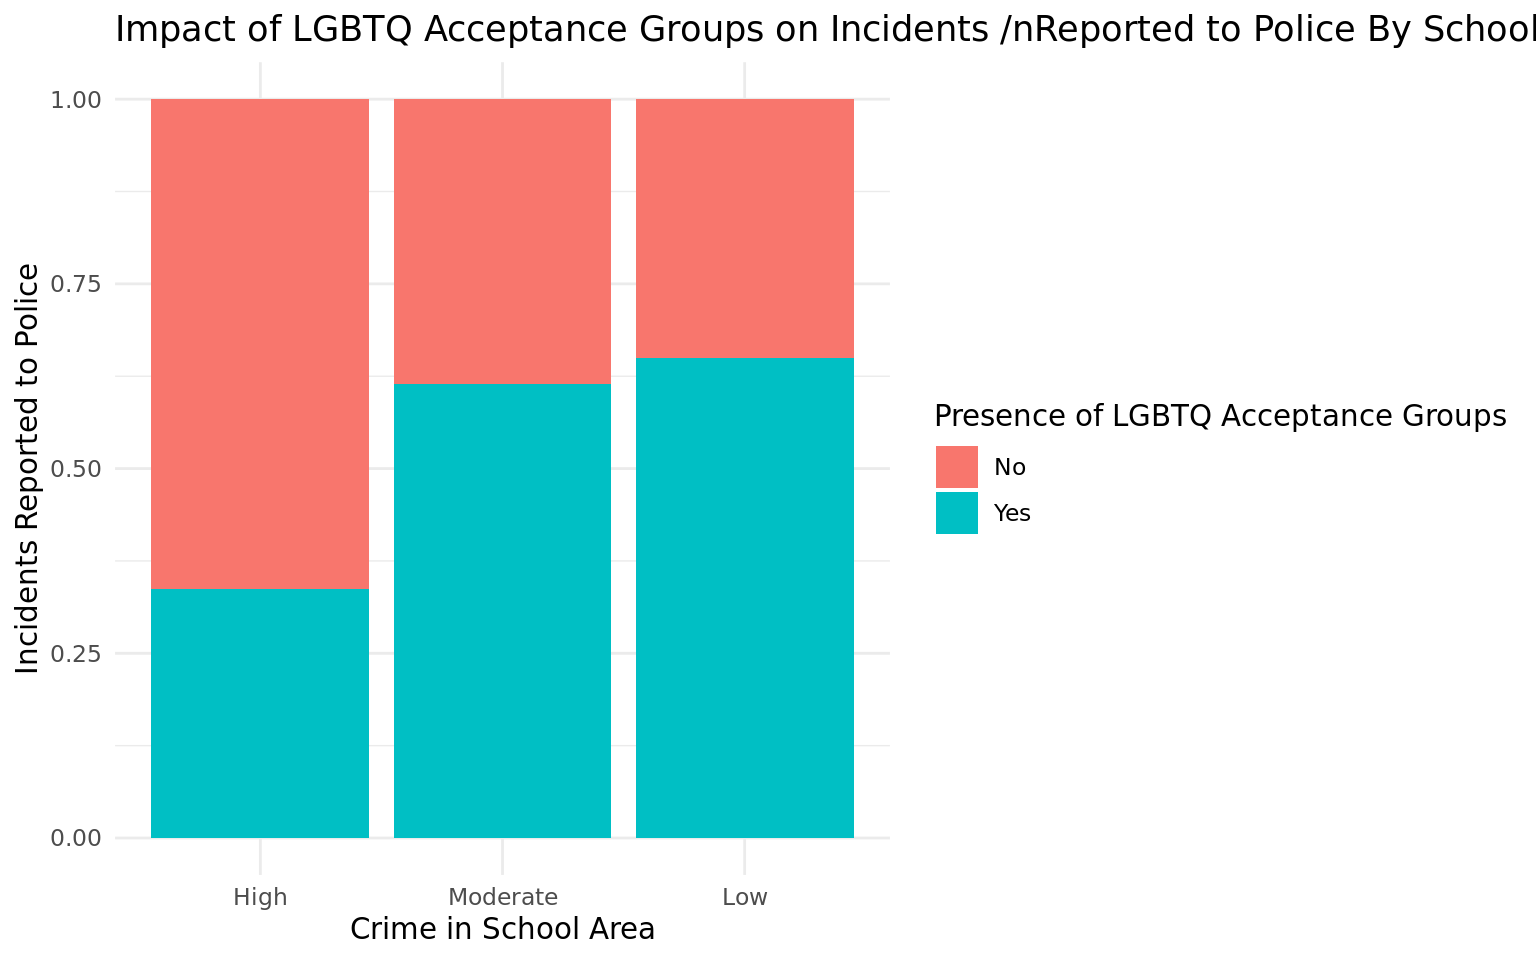
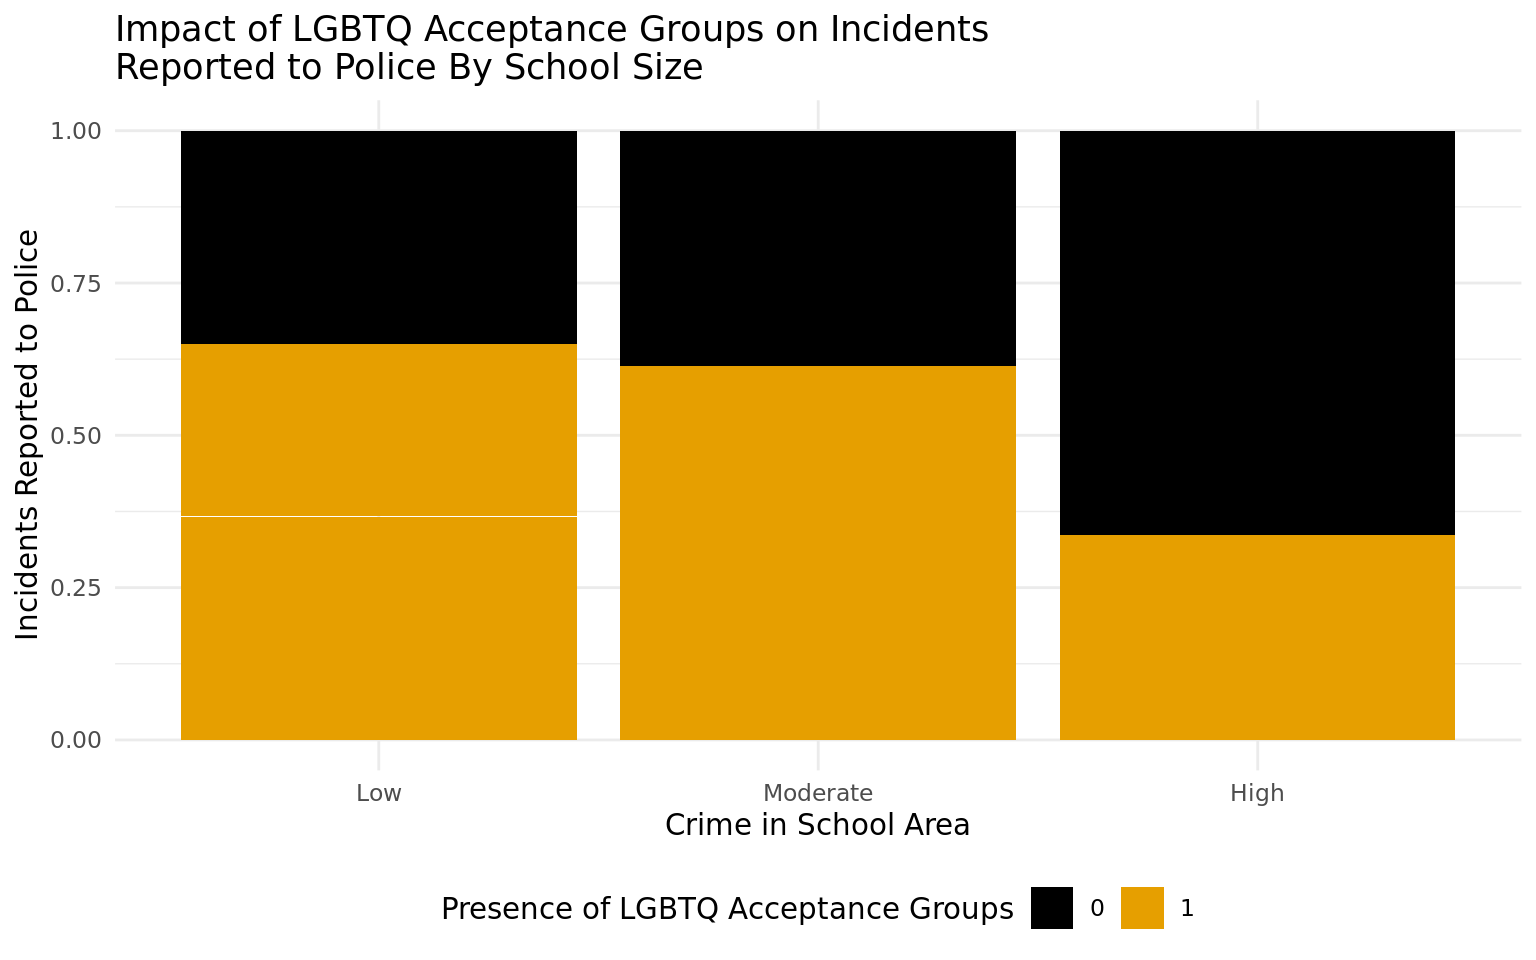
relevel factors and edit yaml

diff --git a/docs/index.html b/docs/index.html
@@ -117,10 +117,6 @@ ul.task-list li input[type="checkbox"] {
 <span class="menu-text">Write Up</span></a>
   </li>  
   <li class="nav-item">
-    <a class="nav-link" href="./presentation.html"> 
-<span class="menu-text">Presentation</span></a>
-  </li>  
-  <li class="nav-item">
     <a class="nav-link" href="./about.html"> 
 <span class="menu-text">About</span></a>
   </li>  
@@ -192,8 +188,8 @@ grid-auto-rows: minmax(0, 1fr);">
 </div>
 </div></div><div class="tab-pane html-fill-item html-fill-container" role="tabpanel" id="card-tabset-2-2"><div class="card-body html-fill-item html-fill-container" data-title="School Resources and Practices">
 <div class="cell-output-display html-fill-item html-fill-container">
-<div class="plotly html-widget html-fill-item html-fill-container" id="htmlwidget-b79a93c6660d6922390c" style="width:100%;height:406px;"></div>
-<script type="application/json" data-for="htmlwidget-b79a93c6660d6922390c">{"x":{"visdat":{"1170b55ae39e":["function () ","plotlyVisDat"]},"cur_data":"1170b55ae39e","attrs":{"1170b55ae39e":{"x":{},"y":{},"text":{},"hoverinfo":"text","marker":{"color":{},"colorscale":"RdBl"},"alpha_stroke":1,"sizes":[10,100],"spans":[1,20],"type":"bar"}},"layout":{"margin":{"b":40,"l":60,"t":25,"r":10},"title":"School Resources and Practices Impact on Incidents Reported to Police","xaxis":{"domain":[0,1],"automargin":true,"title":"name","type":"category","categoryorder":"array","categoryarray":["C0110","C0112","C0114","C0116","C0120","C0121","C0122","C0125","C0129","C0134","C0136","C0138","C0139","C0140","C0141","C0142","C0143","C0144","C0146","C0150","C0153","C0155","C0157","C0158","C0161","C0162","C0163","C0165","C0166","C0167","C0169","C0170","C0174","C0175","C0176","C0177","C0179","C0181","C0183","C0186","C0190","C0192","C0196","C0198","C0204","C0206","C0208","C0210","C0212","C0214","C0216","C0218","C0265","C0266","C0267","C0268","C0269","C0270","C0271","C0272","C0273","C0274","C0276","C0277","C0278","C0600","C0604","C0606","C0608","C0610","C0612","C0614","C0616","C0618","C0621","C0622","C0624","C0626","C0628","C0630","C0632","C0636","C0638","C0640","C0642","C0644","C0646","C0648","C0650","C0661","C0667"]},"yaxis":{"domain":[0,1],"automargin":true,"title":"slope"},"hovermode":"closest","showlegend":false},"source":"A","config":{"modeBarButtonsToAdd":["hoverclosest","hovercompare"],"showSendToCloud":false},"data":[{"x":["C0110","C0112","C0114","C0116","C0120","C0121","C0122","C0125","C0129","C0134","C0136","C0138","C0140","C0139","C0141","C0143","C0142","C0144","C0146","C0150","C0153","C0155","C0158","C0162","C0166","C0170","C0169","C0161","C0157","C0163","C0165","C0167","C0174","C0183","C0176","C0181","C0175","C0177","C0179","C0186","C0600","C0604","C0606","C0608","C0190","C0192","C0196","C0198","C0204","C0206","C0208","C0210","C0212","C0214","C0216","C0218","C0610","C0612","C0614","C0616","C0618","C0621","C0622","C0624","C0626","C0628","C0630","C0632","C0636","C0638","C0640","C0642","C0644","C0646","C0648","C0650","C0661","C0667","C0266","C0268","C0265","C0267","C0269","C0270","C0272","C0278","C0271","C0273","C0274","C0276","C0277"],"y":[-3.3668691832223816,-1.397978695326342,1.5042755731653841,6.9223910179154826,5.5923792209519281,0.10162008640761738,0.38471471486976588,5.3926841163146468,3.10914754148813,-2.554883943847349,0.54076999384254332,2.9600952257060857,0.10094253615951802,-0.66765359314992279,-1.1638254809796569,3.6089401658507221,5.4136634418915675,-0.66869858718602793,2.5937544012415823,0.20258159215807381,-3.7693381487649709,0.92324636936249516,0.9828019647213625,1.1661963836796494,1.8141177488224522,-0.50213313132738957,1.5064031185748636,-0.65068982417313959,-0.66569862778026057,0.94572122348608911,-0.13722340711816758,2.1171389710165229,-1.8020012834634898,-0.7738020329335481,-2.6028444791733065,0.22718638409237951,-0.28226096995771049,2.4715798671345892,-1.0487296030545865,-2.1489351310912186,2.132152941663104,9.0542360519560479,3.4325519275683951,6.2753511277332183,1.6054256238741895,-0.045955228494010437,0.56861208040897826,2.2520642457143305,-2.4958357575810455,2.3024546477479255,6.1815118752910729,2.5218428380542521,3.2899024421275684,2.1524971476861934,2.6892866076620305,2.7976961117939849,7.9806976290657268,8.347940605873502,8.5645443252970352,8.1996248153742055,4.5496806361740294,8.3660773061237492,7.6663482252313626,8.1760762402709641,6.9506963037097949,6.1526617110337627,8.8679905345160339,8.3807840971700749,8.1388953809172992,5.0873604459782609,6.5216405341707704,2.7215185594736853,8.1128488245548134,9.3574927652626823,8.6142858233994009,7.3360396667182739,3.319417095504837,2.4894111689124681,-0.39220562558987138,1.5348909923613838,0.35096960723585208,-0.81104149847696094,0.97559413797251393,0.55693405631333048,0.76893735011555531,1.7706832234258596,0.158881877329137,-0.53309320625460432,2.6754937190358108,-0.32764182657786572,0.52346435141880943],"text":["Variable:  C0110 <br>Slope:  -3.36686918322238","Variable:  C0112 <br>Slope:  -1.39797869532634","Variable:  C0114 <br>Slope:  1.50427557316538","Variable:  C0116 <br>Slope:  6.92239101791548","Variable:  C0120 <br>Slope:  5.59237922095193","Variable:  C0121 <br>Slope:  0.101620086407617","Variable:  C0122 <br>Slope:  0.384714714869766","Variable:  C0125 <br>Slope:  5.39268411631465","Variable:  C0129 <br>Slope:  3.10914754148813","Variable:  C0134 <br>Slope:  -2.55488394384735","Variable:  C0136 <br>Slope:  0.540769993842543","Variable:  C0138 <br>Slope:  2.96009522570609","Variable:  C0140 <br>Slope:  0.100942536159518","Variable:  C0139 <br>Slope:  -0.667653593149923","Variable:  C0141 <br>Slope:  -1.16382548097966","Variable:  C0143 <br>Slope:  3.60894016585072","Variable:  C0142 <br>Slope:  5.41366344189157","Variable:  C0144 <br>Slope:  -0.668698587186028","Variable:  C0146 <br>Slope:  2.59375440124158","Variable:  C0150 <br>Slope:  0.202581592158074","Variable:  C0153 <br>Slope:  -3.76933814876497","Variable:  C0155 <br>Slope:  0.923246369362495","Variable:  C0158 <br>Slope:  0.982801964721362","Variable:  C0162 <br>Slope:  1.16619638367965","Variable:  C0166 <br>Slope:  1.81411774882245","Variable:  C0170 <br>Slope:  -0.50213313132739","Variable:  C0169 <br>Slope:  1.50640311857486","Variable:  C0161 <br>Slope:  -0.65068982417314","Variable:  C0157 <br>Slope:  -0.665698627780261","Variable:  C0163 <br>Slope:  0.945721223486089","Variable:  C0165 <br>Slope:  -0.137223407118168","Variable:  C0167 <br>Slope:  2.11713897101652","Variable:  C0174 <br>Slope:  -1.80200128346349","Variable:  C0183 <br>Slope:  -0.773802032933548","Variable:  C0176 <br>Slope:  -2.60284447917331","Variable:  C0181 <br>Slope:  0.22718638409238","Variable:  C0175 <br>Slope:  -0.28226096995771","Variable:  C0177 <br>Slope:  2.47157986713459","Variable:  C0179 <br>Slope:  -1.04872960305459","Variable:  C0186 <br>Slope:  -2.14893513109122","Variable:  C0600 <br>Slope:  2.1321529416631","Variable:  C0604 <br>Slope:  9.05423605195605","Variable:  C0606 <br>Slope:  3.4325519275684","Variable:  C0608 <br>Slope:  6.27535112773322","Variable:  C0190 <br>Slope:  1.60542562387419","Variable:  C0192 <br>Slope:  -0.0459552284940104","Variable:  C0196 <br>Slope:  0.568612080408978","Variable:  C0198 <br>Slope:  2.25206424571433","Variable:  C0204 <br>Slope:  -2.49583575758105","Variable:  C0206 <br>Slope:  2.30245464774793","Variable:  C0208 <br>Slope:  6.18151187529107","Variable:  C0210 <br>Slope:  2.52184283805425","Variable:  C0212 <br>Slope:  3.28990244212757","Variable:  C0214 <br>Slope:  2.15249714768619","Variable:  C0216 <br>Slope:  2.68928660766203","Variable:  C0218 <br>Slope:  2.79769611179398","Variable:  C0610 <br>Slope:  7.98069762906573","Variable:  C0612 <br>Slope:  8.3479406058735","Variable:  C0614 <br>Slope:  8.56454432529704","Variable:  C0616 <br>Slope:  8.19962481537421","Variable:  C0618 <br>Slope:  4.54968063617403","Variable:  C0621 <br>Slope:  8.36607730612375","Variable:  C0622 <br>Slope:  7.66634822523136","Variable:  C0624 <br>Slope:  8.17607624027096","Variable:  C0626 <br>Slope:  6.95069630370979","Variable:  C0628 <br>Slope:  6.15266171103376","Variable:  C0630 <br>Slope:  8.86799053451603","Variable:  C0632 <br>Slope:  8.38078409717007","Variable:  C0636 <br>Slope:  8.1388953809173","Variable:  C0638 <br>Slope:  5.08736044597826","Variable:  C0640 <br>Slope:  6.52164053417077","Variable:  C0642 <br>Slope:  2.72151855947369","Variable:  C0644 <br>Slope:  8.11284882455481","Variable:  C0646 <br>Slope:  9.35749276526268","Variable:  C0648 <br>Slope:  8.6142858233994","Variable:  C0650 <br>Slope:  7.33603966671827","Variable:  C0661 <br>Slope:  3.31941709550484","Variable:  C0667 <br>Slope:  2.48941116891247","Variable:  C0266 <br>Slope:  -0.392205625589871","Variable:  C0268 <br>Slope:  1.53489099236138","Variable:  C0265 <br>Slope:  0.350969607235852","Variable:  C0267 <br>Slope:  -0.811041498476961","Variable:  C0269 <br>Slope:  0.975594137972514","Variable:  C0270 <br>Slope:  0.55693405631333","Variable:  C0272 <br>Slope:  0.768937350115555","Variable:  C0278 <br>Slope:  1.77068322342586","Variable:  C0271 <br>Slope:  0.158881877329137","Variable:  C0273 <br>Slope:  -0.533093206254604","Variable:  C0274 <br>Slope:  2.67549371903581","Variable:  C0276 <br>Slope:  -0.327641826577866","Variable:  C0277 <br>Slope:  0.523464351418809"],"hoverinfo":["text","text","text","text","text","text","text","text","text","text","text","text","text","text","text","text","text","text","text","text","text","text","text","text","text","text","text","text","text","text","text","text","text","text","text","text","text","text","text","text","text","text","text","text","text","text","text","text","text","text","text","text","text","text","text","text","text","text","text","text","text","text","text","text","text","text","text","text","text","text","text","text","text","text","text","text","text","text","text","text","text","text","text","text","text","text","text","text","text","text","text"],"marker":{"color":[0.12879729937828838,0.12831194552572575,0.12911930627225793,0.1308072770342974,0.13203234330399377,0.12812183669942298,0.12817007645890915,0.14063305826394354,0.13014178927941794,0.12967117602415376,0.12824668068209868,0.13164492971521077,0.12811845706596597,0.12829029985929694,0.12860683331756015,0.13366108000729554,0.134143525187712,0.1282782146979019,0.1292608498491325,0.12812938468515009,0.13389064868016115,0.12821250410984028,0.12821682765186293,0.12872278491312439,0.12848566861954586,0.12820975913626972,0.12849971546270442,0.12830501022054305,0.12821604133038256,0.12821807674092831,0.12811868016939043,0.12919725607893415,0.12849297056110437,0.1282476487179961,0.12878310817845498,0.12812446629080393,0.12815285046461172,0.12922402326803201,0.12858278988982499,0.12922977424340568,0.13010715679275048,0.15625333685299586,0.13278869204123203,0.14288911347030089,0.12926002743997539,0.12811852441941887,0.16932551808769525,0.15930694204250212,0.13056026950296443,0.1301711975907949,0.14457273388048525,0.1295901476999328,0.13223849235872628,0.13016261634563117,0.13092650755094065,0.13108530638348861,0.15068100303557563,0.15345705944034771,0.15580251713346341,0.15412269458663119,0.13593243420082476,0.15398122406907427,0.15241746175592133,0.15284277822835945,0.14316180404589135,0.14374046850343197,0.15847278795450828,0.15626571859902311,0.15427691447090475,0.13870510805230069,0.14527695912711205,0.13046918037706723,0.15420263035540338,0.1621600946137049,0.15292965543226697,0.15005263222898887,0.13287119253232657,0.13077777571819016,0.12814836315143593,0.12887614832227604,0.12816006186305029,0.12828255045738529,0.12853206296238598,0.12813969509261605,0.12837963025977689,0.12922908277911194,0.12812810984118636,0.12820635175431877,0.13122628871301745,0.12814585784509172,0.12821118898576306],"colorscale":"RdBl","line":{"color":"rgba(31,119,180,1)"}},"type":"bar","error_y":{"color":"rgba(31,119,180,1)"},"error_x":{"color":"rgba(31,119,180,1)"},"xaxis":"x","yaxis":"y","frame":null}],"highlight":{"on":"plotly_click","persistent":false,"dynamic":false,"selectize":false,"opacityDim":0.20000000000000001,"selected":{"opacity":1},"debounce":0},"shinyEvents":["plotly_hover","plotly_click","plotly_selected","plotly_relayout","plotly_brushed","plotly_brushing","plotly_clickannotation","plotly_doubleclick","plotly_deselect","plotly_afterplot","plotly_sunburstclick"],"base_url":"https://plot.ly"},"evals":[],"jsHooks":[]}</script>
+<div class="plotly html-widget html-fill-item html-fill-container" id="htmlwidget-0c9e3a1086dd300338dc" style="width:100%;height:406px;"></div>
+<script type="application/json" data-for="htmlwidget-0c9e3a1086dd300338dc">{"x":{"visdat":{"d459332db8fa":["function () ","plotlyVisDat"]},"cur_data":"d459332db8fa","attrs":{"d459332db8fa":{"x":{},"y":{},"text":{},"hoverinfo":"text","marker":{"color":{},"colorscale":"RdBl"},"alpha_stroke":1,"sizes":[10,100],"spans":[1,20],"type":"bar"}},"layout":{"margin":{"b":40,"l":60,"t":25,"r":10},"title":"School Resources and Practices Impact on Incidents Reported to Police","xaxis":{"domain":[0,1],"automargin":true,"title":"name","type":"category","categoryorder":"array","categoryarray":["C0110","C0112","C0114","C0116","C0120","C0121","C0122","C0125","C0129","C0134","C0136","C0138","C0139","C0140","C0141","C0142","C0143","C0144","C0146","C0150","C0153","C0155","C0157","C0158","C0161","C0162","C0163","C0165","C0166","C0167","C0169","C0170","C0174","C0175","C0176","C0177","C0179","C0181","C0183","C0186","C0190","C0192","C0196","C0198","C0204","C0206","C0208","C0210","C0212","C0214","C0216","C0218","C0265","C0266","C0267","C0268","C0269","C0270","C0271","C0272","C0273","C0274","C0276","C0277","C0278","C0600","C0604","C0606","C0608","C0610","C0612","C0614","C0616","C0618","C0621","C0622","C0624","C0626","C0628","C0630","C0632","C0636","C0638","C0640","C0642","C0644","C0646","C0648","C0650","C0661","C0667"]},"yaxis":{"domain":[0,1],"automargin":true,"title":"slope"},"hovermode":"closest","showlegend":false},"source":"A","config":{"modeBarButtonsToAdd":["hoverclosest","hovercompare"],"showSendToCloud":false},"data":[{"x":["C0110","C0112","C0114","C0116","C0120","C0121","C0122","C0125","C0129","C0134","C0136","C0138","C0140","C0139","C0141","C0143","C0142","C0144","C0146","C0150","C0153","C0155","C0158","C0162","C0166","C0170","C0169","C0161","C0157","C0163","C0165","C0167","C0174","C0183","C0176","C0181","C0175","C0177","C0179","C0186","C0600","C0604","C0606","C0608","C0190","C0192","C0196","C0198","C0204","C0206","C0208","C0210","C0212","C0214","C0216","C0218","C0610","C0612","C0614","C0616","C0618","C0621","C0622","C0624","C0626","C0628","C0630","C0632","C0636","C0638","C0640","C0642","C0644","C0646","C0648","C0650","C0661","C0667","C0266","C0268","C0265","C0267","C0269","C0270","C0272","C0278","C0271","C0273","C0274","C0276","C0277"],"y":[-3.3668691832223816,-1.397978695326342,1.5042755731653841,6.9223910179154826,5.5923792209519281,0.10162008640761738,0.38471471486976588,5.3926841163146468,3.10914754148813,-2.554883943847349,0.54076999384254332,2.9600952257060857,0.10094253615951802,-0.66765359314992279,-1.1638254809796569,3.6089401658507221,5.4136634418915675,-0.66869858718602793,2.5937544012415823,0.20258159215807381,-3.7693381487649709,0.92324636936249516,0.9828019647213625,1.1661963836796494,1.8141177488224522,-0.50213313132738957,1.5064031185748636,-0.65068982417313959,-0.66569862778026057,0.94572122348608911,-0.13722340711816758,2.1171389710165229,-1.8020012834634898,-0.7738020329335481,-2.6028444791733065,0.22718638409237951,-0.28226096995771049,2.4715798671345892,-1.0487296030545865,-2.1489351310912186,2.132152941663104,9.0542360519560479,3.4325519275683951,6.2753511277332183,1.6054256238741895,-0.045955228494010437,0.56861208040897826,2.2520642457143305,-2.4958357575810455,2.3024546477479255,6.1815118752910729,2.5218428380542521,3.2899024421275684,2.1524971476861934,2.6892866076620305,2.7976961117939849,7.9806976290657268,8.347940605873502,8.5645443252970352,8.1996248153742055,4.5496806361740294,8.3660773061237492,7.6663482252313626,8.1760762402709641,6.9506963037097949,6.1526617110337627,8.8679905345160339,8.3807840971700749,8.1388953809172992,5.0873604459782609,6.5216405341707704,2.7215185594736853,8.1128488245548134,9.3574927652626823,8.6142858233994009,7.3360396667182739,3.319417095504837,2.4894111689124681,-0.39220562558987138,1.5348909923613838,0.35096960723585208,-0.81104149847696094,0.97559413797251393,0.55693405631333048,0.76893735011555531,1.7706832234258596,0.158881877329137,-0.53309320625460432,2.6754937190358108,-0.32764182657786572,0.52346435141880943],"text":["Variable:  C0110 <br>Slope:  -3.36686918322238","Variable:  C0112 <br>Slope:  -1.39797869532634","Variable:  C0114 <br>Slope:  1.50427557316538","Variable:  C0116 <br>Slope:  6.92239101791548","Variable:  C0120 <br>Slope:  5.59237922095193","Variable:  C0121 <br>Slope:  0.101620086407617","Variable:  C0122 <br>Slope:  0.384714714869766","Variable:  C0125 <br>Slope:  5.39268411631465","Variable:  C0129 <br>Slope:  3.10914754148813","Variable:  C0134 <br>Slope:  -2.55488394384735","Variable:  C0136 <br>Slope:  0.540769993842543","Variable:  C0138 <br>Slope:  2.96009522570609","Variable:  C0140 <br>Slope:  0.100942536159518","Variable:  C0139 <br>Slope:  -0.667653593149923","Variable:  C0141 <br>Slope:  -1.16382548097966","Variable:  C0143 <br>Slope:  3.60894016585072","Variable:  C0142 <br>Slope:  5.41366344189157","Variable:  C0144 <br>Slope:  -0.668698587186028","Variable:  C0146 <br>Slope:  2.59375440124158","Variable:  C0150 <br>Slope:  0.202581592158074","Variable:  C0153 <br>Slope:  -3.76933814876497","Variable:  C0155 <br>Slope:  0.923246369362495","Variable:  C0158 <br>Slope:  0.982801964721362","Variable:  C0162 <br>Slope:  1.16619638367965","Variable:  C0166 <br>Slope:  1.81411774882245","Variable:  C0170 <br>Slope:  -0.50213313132739","Variable:  C0169 <br>Slope:  1.50640311857486","Variable:  C0161 <br>Slope:  -0.65068982417314","Variable:  C0157 <br>Slope:  -0.665698627780261","Variable:  C0163 <br>Slope:  0.945721223486089","Variable:  C0165 <br>Slope:  -0.137223407118168","Variable:  C0167 <br>Slope:  2.11713897101652","Variable:  C0174 <br>Slope:  -1.80200128346349","Variable:  C0183 <br>Slope:  -0.773802032933548","Variable:  C0176 <br>Slope:  -2.60284447917331","Variable:  C0181 <br>Slope:  0.22718638409238","Variable:  C0175 <br>Slope:  -0.28226096995771","Variable:  C0177 <br>Slope:  2.47157986713459","Variable:  C0179 <br>Slope:  -1.04872960305459","Variable:  C0186 <br>Slope:  -2.14893513109122","Variable:  C0600 <br>Slope:  2.1321529416631","Variable:  C0604 <br>Slope:  9.05423605195605","Variable:  C0606 <br>Slope:  3.4325519275684","Variable:  C0608 <br>Slope:  6.27535112773322","Variable:  C0190 <br>Slope:  1.60542562387419","Variable:  C0192 <br>Slope:  -0.0459552284940104","Variable:  C0196 <br>Slope:  0.568612080408978","Variable:  C0198 <br>Slope:  2.25206424571433","Variable:  C0204 <br>Slope:  -2.49583575758105","Variable:  C0206 <br>Slope:  2.30245464774793","Variable:  C0208 <br>Slope:  6.18151187529107","Variable:  C0210 <br>Slope:  2.52184283805425","Variable:  C0212 <br>Slope:  3.28990244212757","Variable:  C0214 <br>Slope:  2.15249714768619","Variable:  C0216 <br>Slope:  2.68928660766203","Variable:  C0218 <br>Slope:  2.79769611179398","Variable:  C0610 <br>Slope:  7.98069762906573","Variable:  C0612 <br>Slope:  8.3479406058735","Variable:  C0614 <br>Slope:  8.56454432529704","Variable:  C0616 <br>Slope:  8.19962481537421","Variable:  C0618 <br>Slope:  4.54968063617403","Variable:  C0621 <br>Slope:  8.36607730612375","Variable:  C0622 <br>Slope:  7.66634822523136","Variable:  C0624 <br>Slope:  8.17607624027096","Variable:  C0626 <br>Slope:  6.95069630370979","Variable:  C0628 <br>Slope:  6.15266171103376","Variable:  C0630 <br>Slope:  8.86799053451603","Variable:  C0632 <br>Slope:  8.38078409717007","Variable:  C0636 <br>Slope:  8.1388953809173","Variable:  C0638 <br>Slope:  5.08736044597826","Variable:  C0640 <br>Slope:  6.52164053417077","Variable:  C0642 <br>Slope:  2.72151855947369","Variable:  C0644 <br>Slope:  8.11284882455481","Variable:  C0646 <br>Slope:  9.35749276526268","Variable:  C0648 <br>Slope:  8.6142858233994","Variable:  C0650 <br>Slope:  7.33603966671827","Variable:  C0661 <br>Slope:  3.31941709550484","Variable:  C0667 <br>Slope:  2.48941116891247","Variable:  C0266 <br>Slope:  -0.392205625589871","Variable:  C0268 <br>Slope:  1.53489099236138","Variable:  C0265 <br>Slope:  0.350969607235852","Variable:  C0267 <br>Slope:  -0.811041498476961","Variable:  C0269 <br>Slope:  0.975594137972514","Variable:  C0270 <br>Slope:  0.55693405631333","Variable:  C0272 <br>Slope:  0.768937350115555","Variable:  C0278 <br>Slope:  1.77068322342586","Variable:  C0271 <br>Slope:  0.158881877329137","Variable:  C0273 <br>Slope:  -0.533093206254604","Variable:  C0274 <br>Slope:  2.67549371903581","Variable:  C0276 <br>Slope:  -0.327641826577866","Variable:  C0277 <br>Slope:  0.523464351418809"],"hoverinfo":["text","text","text","text","text","text","text","text","text","text","text","text","text","text","text","text","text","text","text","text","text","text","text","text","text","text","text","text","text","text","text","text","text","text","text","text","text","text","text","text","text","text","text","text","text","text","text","text","text","text","text","text","text","text","text","text","text","text","text","text","text","text","text","text","text","text","text","text","text","text","text","text","text","text","text","text","text","text","text","text","text","text","text","text","text","text","text","text","text","text","text"],"marker":{"color":[0.12879729937828838,0.12831194552572575,0.12911930627225793,0.1308072770342974,0.13203234330399377,0.12812183669942298,0.12817007645890915,0.14063305826394354,0.13014178927941794,0.12967117602415376,0.12824668068209868,0.13164492971521077,0.12811845706596597,0.12829029985929694,0.12860683331756015,0.13366108000729554,0.134143525187712,0.1282782146979019,0.1292608498491325,0.12812938468515009,0.13389064868016115,0.12821250410984028,0.12821682765186293,0.12872278491312439,0.12848566861954586,0.12820975913626972,0.12849971546270442,0.12830501022054305,0.12821604133038256,0.12821807674092831,0.12811868016939043,0.12919725607893415,0.12849297056110437,0.1282476487179961,0.12878310817845498,0.12812446629080393,0.12815285046461172,0.12922402326803201,0.12858278988982499,0.12922977424340568,0.13010715679275048,0.15625333685299586,0.13278869204123203,0.14288911347030089,0.12926002743997539,0.12811852441941887,0.16932551808769525,0.15930694204250212,0.13056026950296443,0.1301711975907949,0.14457273388048525,0.1295901476999328,0.13223849235872628,0.13016261634563117,0.13092650755094065,0.13108530638348861,0.15068100303557563,0.15345705944034771,0.15580251713346341,0.15412269458663119,0.13593243420082476,0.15398122406907427,0.15241746175592133,0.15284277822835945,0.14316180404589135,0.14374046850343197,0.15847278795450828,0.15626571859902311,0.15427691447090475,0.13870510805230069,0.14527695912711205,0.13046918037706723,0.15420263035540338,0.1621600946137049,0.15292965543226697,0.15005263222898887,0.13287119253232657,0.13077777571819016,0.12814836315143593,0.12887614832227604,0.12816006186305029,0.12828255045738529,0.12853206296238598,0.12813969509261605,0.12837963025977689,0.12922908277911194,0.12812810984118636,0.12820635175431877,0.13122628871301745,0.12814585784509172,0.12821118898576306],"colorscale":"RdBl","line":{"color":"rgba(31,119,180,1)"}},"type":"bar","error_y":{"color":"rgba(31,119,180,1)"},"error_x":{"color":"rgba(31,119,180,1)"},"xaxis":"x","yaxis":"y","frame":null}],"highlight":{"on":"plotly_click","persistent":false,"dynamic":false,"selectize":false,"opacityDim":0.20000000000000001,"selected":{"opacity":1},"debounce":0},"shinyEvents":["plotly_hover","plotly_click","plotly_selected","plotly_relayout","plotly_brushed","plotly_brushing","plotly_clickannotation","plotly_doubleclick","plotly_deselect","plotly_afterplot","plotly_sunburstclick"],"base_url":"https://plot.ly"},"evals":[],"jsHooks":[]}</script>
 </div>
 </div></div></div><bslib-tooltip placement="auto" bsoptions="[]" data-require-bs-version="5" data-require-bs-caller="tooltip()">
     <template>Expand</template>
